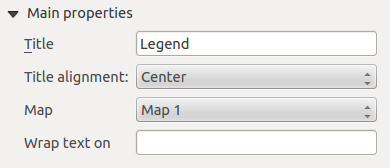
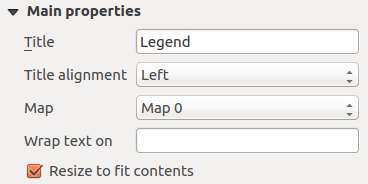
Update legend items properties

diff --git a/source/docs/user_manual/print_composer/composer_items/composer_legend.rst b/source/docs/user_manual/print_composer/composer_items/composer_legend.rst
@@ -42,12 +42,16 @@ tab provides the following functionalities (see figure_composer_legend_ppt_):
 
 In Main properties you can:
 
-* Change the title of the legend.
-* Set the title alignment to Left, Center or Right.
+* Change the title of the legend;
+* Set the title alignment to Left, Center or Right;
 * You can choose which :guilabel:`Map` item the current legend will refer to
-  in the select list.
-* You can wrap the text of the legend title on a given character.
-
+  in the select list;
+* You can wrap the text of the legend title on a given character;
+* Use |checkbox| :guilabel:`Resize to fit contents` to control whether or
+  not a legend should be automatically resized to fit its contents. If
+  unchecked, then the legend will never resize and instead just stick to
+  whatever size the user has set. Any content which doesn't fit the size
+  is cropped out.
 
 Legend items
 ------------
@@ -64,24 +68,44 @@ provides the following functionalities (see figure_composer_legend_items_):
 
 * The legend will be updated automatically if |checkbox| :guilabel:`Auto-update`
   is checked. When :guilabel:`Auto-update` is unchecked this will give you more
-  control over the legend items. The icons below the legend items list will be activated.
+  control over the legend items. The icons below the legend items list will be
+  activated.
 * The legend items window lists all legend items and allows you to change item
   order, group layers, remove and restore items in the list, edit layer names
   and add a filter.
 
-  * The item order can be changed using the **[Up]** and **[Down]** buttons or
+  * The item order can be changed using the |arrowUp| and |arrowDown| buttons or
     with 'drag-and-drop' functionality. The order can not be changed for WMS
     legend graphics.
-  * Use the **[Add group]** button to add a legend group.
-  * Use the **[plus]** and **[minus]** button to add or remove layers.
-  * The **[Edit]** button is used to edit the layer, groupname or title.
-    First you need to select the legend item.
-  * The **[Sigma]** button adds a feature count for each vector layer.
-  * Use the **[filter]** button to filter the legend by map content, only the
-    legend items visible in the map will be listed in the legend.
+  * Use the |addGroup| button to add a legend group.
+  * Use the |signPlus| button to add layers and |signMinus| button to remove
+    groups, layers or symbol classes.
+  * The |projectProperties| button is used to edit the layer, groupname or title.
+    First you need to select the legend item. Double-clicking the item also
+    opens the text box to rename it.
+  * The |sum| button adds a feature count for each class of vector layer.
+  * With the |filterMap| :sup:`Filter legend by map content` button, only the
+    legend items visible in the map will be listed in the legend. This tool
+    remains available when |checkbox| :guilabel:`Auto-update` is active.
+  * The |expressionFilter| :sup:`Filter legend by expression` helps you filter
+    which of the legend items of a layer will be displayed, i.e. using a layer
+    that has different legend items (e.g., from a rule-based or categorized
+    symbology), you can specify a boolean expression to remove from the legend
+    tree, styles that have no feature satisfying a condition. Note that the
+    features are nevertheless kept and shown in the composer map item.
+
+  While the default behavior of the legend item is to mimic the Layers panel
+  tree, displaying the same groups, layers and classes of symbology, right-click
+  any item offers you options to hide layer's name or raise it as a group or
+  subgroup. In case you have made some changes to a layer, you can revert them
+  by choosing :guilabel:`Reset to defaults` from the contextual menu.
 
   After changing the symbology in the QGIS main window, you can click on
   **[Update All]** to adapt the changes in the legend element of the Print Composer.
+
+* While generating an atlas with polygon features, you can filter out legend items
+  that lie outside the current atlas feature. To do that, check the |checkbox|
+  :guilabel:`Only show items inside current atlas feature` option. 
 
 
 
@@ -111,7 +135,7 @@ legend :guilabel:`Item Properties` tab provide the following functionalities
   * The |checkbox| :guilabel:`Split layers` option allows a categorized or a graduated layer
     legend to be divided between columns.
 
-* You can also change the width and height of the legend symbol,set a color and
+* You can also change the width and height of the legend symbol, set a color and
   a thickness in case of raster layer symbol.
 
 
